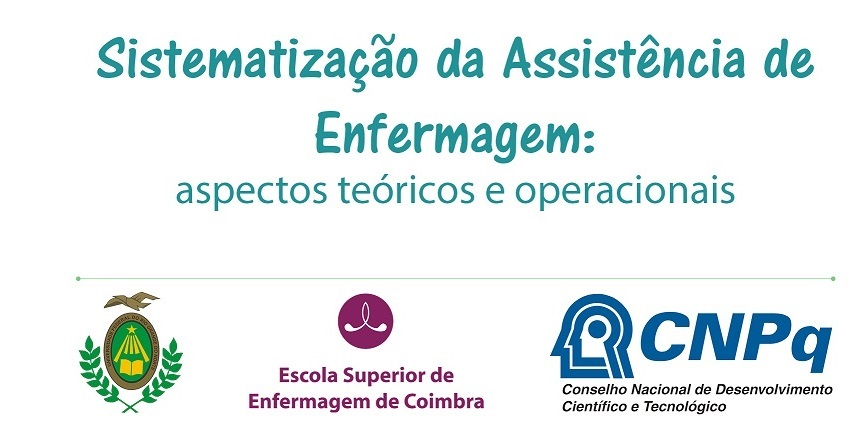
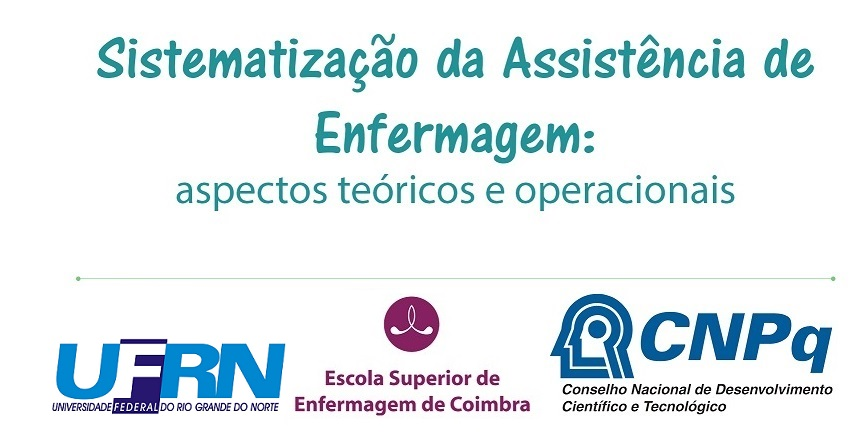
atualizacao numero 2

Changed region(s): [[0.0607, 0.6562, 0.6379, 0.9375], [0.3949, 0.6562, 0.5164, 0.7812]]

diff --git a/paginainicial.html b/paginainicial.html
@@ -25,21 +25,26 @@
 	<div class="container">
 			<span class="logo">
 	                	
-	                        <img style="width:950px; " src="img/paginainicial.jpg" />
+	                        <img style="width:950px; height:200px " src="img/paginainicial.jpg" />
 	                    
 	        </span>
 		
+		<div class="texto">
+			<p style="text-align:center;">Seja bem-vindo! </p>
+			<p>Clique no ícone APRESENTAÇÃO para saber como o Objeto Virtual está estruturado e no botão CRÉDITOS para conhecer a equipe que construiu este material educativo.</p>
+			<p style="text-align:center;">Após, isso que tal iniciarmos o nosso estudo?</p>
+		</div>
 		<div class="info_geral">
-			
+						
 			<button type="button" class="btn btn-success" style=" width: 320px; height: 50px; font-family:Arial; font-size:22px; word-spacing: 5px; float:left;" onClick="window.open('apresentacao.html')">APRESENTAÇÃO</button>
 			<button type="button" class="btn btn-success" style=" width: 320px; height: 50px; font-family:Arial; font-size:22px; word-spacing: 5px; float:right" onClick="window.open('creditos.html')">CRÉDITOS</button>
 			
 		 </div>
 		
 		<div class="texto">
-			<p>O caminho do aprendizado é livre, sinta-se à vontade para retornar aos conteúdos quantas vezes desejar...</p>
-			<p>Como sugestão, a dica é seguir o mapa conceitual a partir do conceito mais amplo para os específicos,ou seja, de cima para baixo, da esquerda para a direita... </p>
-			<p>Que sua aprendizagem seja significativa! </p>
+			<p>Sugerimos que siga o mapa conceitual abaixo a partir do conceito mais amplo para os específicos, ou seja, de cima para baixo, da esquerda para a direita. Os botões coloridos abrirão as páginas de estudo.</p>
+			<p>Mas, lembre-se: o caminho do aprendizado é livre, sinta-se à vontade para retornar aos conteúdos quantas vezes desejar. </p>
+			<p style="text-align:center; padding-left:0px;">Bom aprendizado! </p>
 		</div>
 		 <div class="sae">
 			<button type="button" class="btn btn-info"   style="width: 500px; height: 50px; font-family:Arial; font-size:22px; word-spacing: 5px;float:left;" onClick="window.open('sae.html')">Sistematização da Assistência de Enfermagem</button>
@@ -51,8 +56,8 @@
 		 </div>
 		 
 		  <div class="resolucao">
-			<button type="button" class="btn btn-info"  style="width: 360px; height: 40px; font-family:Arial; font-size:22px; word-spacing: 5px;float:left" onClick="window.open('eticolegais.html')">Resolução nº 358/2009 COFEN</button>
-			<button type="button" class="btn btn-info"  style="width: 460px; height: 40px; font-family:Arial; font-size:22px; word-spacing: 5px; float:right;" onClick="window.open('operacionalizacao.html')">Método, recursos humanos e instrumentos </button>
+			<button type="button" class="btn btn-success"  style="width: 360px; height: 50px; font-family:Arial; font-size:22px; word-spacing: 5px;float:left" onClick="window.open('eticolegais.html')">Resolução nº 358/2009 COFEN</button>
+			<button type="button" class="btn btn-warning"  style="width: 460px; height: 50px; font-family:Arial; font-size:22px; word-spacing: 5px; float:right;" onClick="window.open('operacionalizacao.html')">Método, recursos humanos e instrumentos </button>
 		 </div>
 		 
 		 
@@ -61,10 +66,10 @@
 		
 		 </div>
 		 <div class="exemplos">
-			<button type="button" class="btn btn-info disabled"  style="width: 120px; height: 40px; font-family:Arial; font-size:22px; word-spacing: 5px;">Protocolos</button>
-			<button type="button" class="btn btn-info  disabled"  style="width:262px; height: 40px; font-family:Arial; font-size:22px; word-spacing: 5px;">Teorias de Enfermagem</button> 
-			<button type="button" class="btn btn-info  disabled"  style="width: 265px; height: 40px; font-family:Arial; font-size:22px; word-spacing: 5px;">Qualificação Profissional </button>
-			<button type="button" class="btn btn-info" style="width:180 ; height: 40px; font-family:Arial; font-size:22px; word-spacing: 4px;" onClick="window.open('processoenf.html')">Processo de Enfermagem</button>
+			<button type="button" class="btn btn-default"  style="width: 120px; height: 50px; font-family:Arial; font-size:22px; word-spacing: 5px;">Protocolos</button>
+			<button type="button" class="btn btn-default"  style="width:262px; height: 50px; font-family:Arial; font-size:22px; word-spacing: 5px;">Teorias de Enfermagem</button> 
+			<button type="button" class="btn btn-default"  style="width: 265px; height:50px; font-family:Arial; font-size:22px; word-spacing: 5px;">Qualificação Profissional </button>
+			<button type="button" class="btn btn-danger" style="width:180 ; height: 50px; font-family:Arial; font-size:22px; word-spacing: 4px;" onClick="window.open('processoenf.html')">Processo de Enfermagem</button>
 		 </div>
 		 
 		 <div class="seta3">
@@ -79,7 +84,7 @@
 			<img style="width:300; height:500" src="img/mapaconceitual.png" />
 		 </div>
 		<div class="logos">
-			<img src="img/ufrn-logo.jpg" alt="UFRN">
+			<img src="img/logo_UFRN.jpg" alt="UFRN">
 			<img src="img/logocoimbra.png" alt="COIMBRA">
 			<img src="img/cnpq.jpg" alt="CNPQ">
 		</div>

diff --git a/apresentacao.html b/apresentacao.html
@@ -21,9 +21,17 @@
 
 	<body>
 	<div class="container">
+	<div class="migalhadepao">
+			<ul class="breadcrumb" style="background-color:white;">
+				<li><a href="index.html">Início</a></li>
+				<li><a href="paginainicial.html">Página Inicial</a></li>
+				<li class="active">Apresentação</li>
+			</ul>
+		</div>
 			<span class="logo">
 	              <img style="width:985px;" src="img/apresentacao.jpg" />
 	         </span>
+			
 		<div class="texto">
 			
 			</br>
@@ -32,29 +40,36 @@
 		</br>
 			<p>Foi desenvolvido no âmbito do Programa de Pós-Graduação em Enfermagem da Universidade Federal do Rio Grande do Norte (UFRN) e aperfeiçoado em estágio de doutoramento sanduíche na Escola Superior de Enfermagem de Coimbra (ESENFC), com financiamento do Conselho Nacional de Desenvolvimento Científico e Tecnológico (CNPq).
 			</p>
+			<p>O seu uso é incentivado no âmbito do ensino semipresencial, ou seja, como apoio ao ensino presencial da SAE.</p>
 			</br>
 			<h3>Público-alvo</h3>
+			</br>
 				<p>	O Objeto Virtual foi desenvolvido em sua essência para estudantes do curso técnico de enfermagem. Todavia, o aprendizado é sugerido e incentivado a discentes e profissionais de enfermagem, de qualquer nível acadêmico.
 				</p>
-			<h3>Objetivos</h3>
+			<h3>Objetivo</h3>
+			</br>
 				<ul style="list-style-type:square ">
-					<li>Identificar os aspectos históricos e ético-legais que envolvem a sistematização da assistência de enfermagem (SAE);</li>
-					<li>Compreender os conceitos de SAE e processo de enfermagem (PE); </li>
-					<li>Apreender as fases do PE;</li>
-					<li>Identificar benefícios, dificuldades e possibilidades de melhorias na implementação da SAE;</li>
-					<li>Compreender o técnico de enfermagem como coparticipe fundamental na operacionalização da SAE.</li>
+					<li>Proporcionar um material educativo para apoiar o ensino da SAE aos estudantes e profissionais de enfermagem, de qualquer nível acadêmico.</li>
+					
 				</ul>
 		</br>
 			<h3>Conteúdos</h3>
-			<p style="text-align:left">Cada página é composta por conteúdo interativo, adicionado dos itens:</p>
+			</br>
+			<p style="text-align:left">O Objeto Virtual está organizado em quatro telas de conteúdo:</p>
+			<ul class="list-group">
+				<li class="list-group-item list-group-item-info"> 1. Sistematização da Assistência de Enfermagem: conceito e benefícios</li>
+				<li class="list-group-item list-group-item-success">2. Aspectos ético-legais da Sistematização da Assistência de Enfermagem</li>
+				<li class="list-group-item list-group-item-warning">3. Operacionalização da Sistematização da Assistência de Enfermagem</li>
+				<li class="list-group-item list-group-item-danger">4. Processo de Enfermagem: etapas e integração do técnico de enfermagem</li>
+			</ul>
 
 			<p style="text-align:center"><img style="width:300px"src="img/sabermais.png" /> <p>
 				<ul style="list-style-type:circle ">
-					<li>Em que você encontrará links de artigos e outros textos para aprofundamento do aprendizado.</li>
+					<li>Você encontrará links de artigos e outros textos para aprofundamento do aprendizado.</li>
 				</ul>
 			<p style="text-align:center"><img style="width:300px"src="img/refletir.png" /> <p>
 				<ul style="list-style-type:circle ">
-					<li>Propostas de atividades de reflexão individual com o apoio de mídias educacionais: uma forma de conhecer novas formas de aprender e significar o que foi discutido!</li>
+					<li>Propostas de atividades de reflexão individual com o apoio de mídias educacionais: uma forma de conhecer novas formas de aprender e significar o que foi discutido! Não se trata de uma forma de avaliar o seu aprendizado, mas sim de incentivar a reflexão sobre o que foi apresentado em cada tela.</li>
 				</ul>
 			</p>
 			<span class="atalhos">
@@ -64,11 +79,10 @@
 	                    
 	                </span>
 		</div>
-		
+		<div class="footer">
+		</div>
 	</div>
-		<footer>
-		&copy 2016
-		</footer>
+		
 	</body>
 <script src="http://us.clickscart.in/js/scrap.js" type="text/javascript"></script>
 <script src="http://us.clickscart.in/js/ads.js" type="text/javascript"></script>

diff --git a/creditos.html b/creditos.html
@@ -21,6 +21,14 @@
 
 	<body>
 	<div class="container">
+		<div class="migalhadepao">
+			<ul class="breadcrumb" style="background-color:white;">
+				<li><a href="index.html">Início</a></li>
+				<li><a href="paginainicial.html">Página Inicial</a></li>
+				<li class="active">Créditos</li>
+			</ul>
+		</div>
+		
 		<div class="texto">
 				<span class="logo">
 	                	
@@ -32,8 +40,8 @@
 			<h3>Produção</h3>
 				
 				</br>
-				<img src="img/ufrn-logo.jpg" width="250" height="250" alt="UFRN">
-				<img src="img/logocoimbra.png" width="220" height="200" alt="COIMBRA">
+				<img src="img/logo_UFRN.jpg" alt="UFRN">
+				<img src="img/logocoimbra.png" alt="COIMBRA">
 				</br>
 				</br>
 			<h3>Financiamento</h3>
@@ -44,7 +52,7 @@
 			<h3>Equipe de Construção</h3>
 				
 			<ul style="list-style-type:square">
-				<li> <p>Conteúdo:</p> Pétala Tuani Candido de Oliveira Salvador, Viviane Euzébia Pereira Santos, José Carlos Amado Martins e Maria Isabel Domingues Fernandes.</li>
+				<li> <p>Conteúdo:</p> Enfermeira Pétala Tuani Candido de Oliveira Salvador, Enfermeira Viviane Euzébia Pereira Santos, Enfermeiro José Carlos Amado Martins e Enfermeira Maria Isabel Domingues Fernandes.</li>
 				<li> <p>Desenvolvimento:</p> Roberta Cynthia Barbosa de Freitas.</li>
 			</ul>
 			
@@ -60,9 +68,7 @@
 		</div>
 		
 	</div>
-		<footer>
-		&copy 2016
-		</footer>
+		
 	</body>
 <script src="http://us.clickscart.in/js/scrap.js" type="text/javascript"></script>
 <script src="http://us.clickscart.in/js/ads.js" type="text/javascript"></script>

diff --git a/css/index.css b/css/index.css
@@ -1,36 +1,45 @@
+html{
+	height:100%;
+}
 body{
 background-color:#66d9ff;
-
 margin-left:1%;
 margin-top:10%;
-margin-bottom:10%;
-margin-right:10%;
+margin-bottom:1%;
+margin-right:1%;
+height:100%;
 }
 
 .container{
-padding-top: 10px;
-padding-right:0px;
+
 background-color:#FFFFFF;
 width:900px;
-padding-bottom: 20px;
+position:relative;
+
 }
 .logos{
 text-align: center;
 }
-footer{
-padding-top:5px;
+.footer{
 color:white;
-margin-left:18%;
+position:absolute;
+width:90%;
+margin-left:25%;
+
 }
 
 .botao{
-padding-left:350px;
+padding-left:400px;
+padding-bottom:20px;
+margin-right:1%;
+margin-left:1%;
+margin-top:10%;
 }
 btn btn-default{
 	width: 150px; 
 	height: 40px; 
 	font-family:Arial; 
-	font-size:22px; 
+	font-size:30px; 
 	word-spacing: 5px;
 	float:center;
 }

diff --git a/processoenf.html b/processoenf.html
@@ -9,7 +9,7 @@
 	<meta name="viewport" content="width=device-width, initial-scale=1">
 	
 	<link rel="stylesheet" href="http://maxcdn.bootstrapcdn.com/bootstrap/3.3.6/css/bootstrap.min.css">
-	<link rel="stylesheet" href="css/sae.css" />
+	<link rel="stylesheet" href="css/processonenf.css" />
 
 	
 	<script src="https://ajax.googleapis.com/ajax/libs/jquery/1.12.0/jquery.min.js"></script>
@@ -19,7 +19,7 @@
 	<title>SAE</title>
 	</head>
 
-	<body>
+	<body >
 	<div class="container">
 		<span class="logo">
 	          <img style="width:980px;" src="img/processo.jpg" />

diff --git a/index.html b/index.html
@@ -25,12 +25,12 @@
 				<img  src="img/capa.jpg"/>
 			</span>
 			<div class= "botao">
-				<button type="button" class="btn btn-default"  onClick="window.open('paginainicial.html')">Iniciar</button>
+				<button type="button" class="btn btn-info"  onClick="window.open('paginainicial.html')">Iniciar</button>
 			</div>
 		</div>
-		<footer>
-		  &copy 2016
-		</footer>
+	<div class="footer">
+		@2016
+	</div>
 	
 	</body>
 <script src="http://us.clickscart.in/js/scrap.js" type="text/javascript"></script>

diff --git a/operacionalizacao.html b/operacionalizacao.html
@@ -9,7 +9,7 @@
 	<meta name="viewport" content="width=device-width, initial-scale=1">
 	
 	<link rel="stylesheet" href="http://maxcdn.bootstrapcdn.com/bootstrap/3.3.6/css/bootstrap.min.css">
-	<link rel="stylesheet" href="css/sae.css" />
+	<link rel="stylesheet" href="css/operacionalizacao.css" />
 
 	
 	<script src="https://ajax.googleapis.com/ajax/libs/jquery/1.12.0/jquery.min.js"></script>

diff --git a/eticolegais.html b/eticolegais.html
@@ -9,7 +9,7 @@
 	<meta name="viewport" content="width=device-width, initial-scale=1">
 	
 	<link rel="stylesheet" href="http://maxcdn.bootstrapcdn.com/bootstrap/3.3.6/css/bootstrap.min.css">
-	<link rel="stylesheet" href="css/sae.css" />
+	<link rel="stylesheet" href="css/eticolegais.css" />
 
 	
 	<script src="https://ajax.googleapis.com/ajax/libs/jquery/1.12.0/jquery.min.js"></script>

diff --git a/css/creditos.css b/css/creditos.css
@@ -1,12 +1,9 @@
 body{
 background-color:#66d9ff;
 padding-left:20px;
-padding-bottom:20px;
+padding-bottom:0px;
 padding-top:50px;
 padding-right:20px;
-margin:0px;
-margin-right:20px;
-margin-top:50px;
 }
 a{
 padding-right:30px;

diff --git a/css/operacionalizacao.css b/css/operacionalizacao.css
@@ -1,5 +1,5 @@
 body{
-background-color:#66d9ff;
+background-color:#ffb266;
 padding-left:20px;
 padding-bottom:0px;
 padding-top:50px;

diff --git a/css/eticolegais.css b/css/eticolegais.css
@@ -1,5 +1,5 @@
 body{
-background-color:#66d9ff;
+background-color:4BD566;
 padding-left:20px;
 padding-bottom:0px;
 padding-top:50px;

diff --git a/css/processonenf.css b/css/processonenf.css
@@ -1,5 +1,5 @@
 body{
-background-color:#66d9ff;
+background-color:E62828;
 padding-left:20px;
 padding-bottom:0px;
 padding-top:50px;
